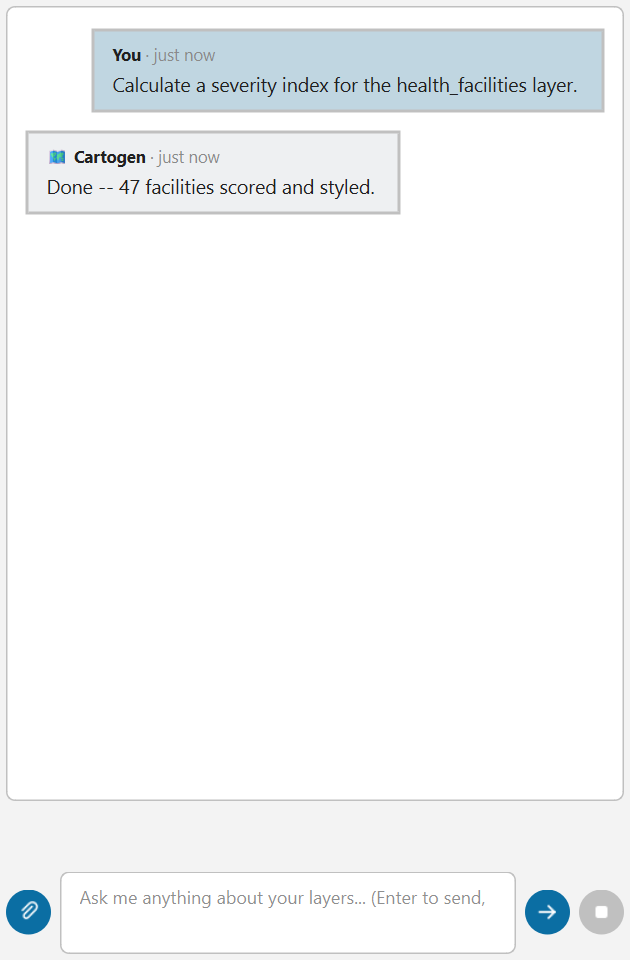
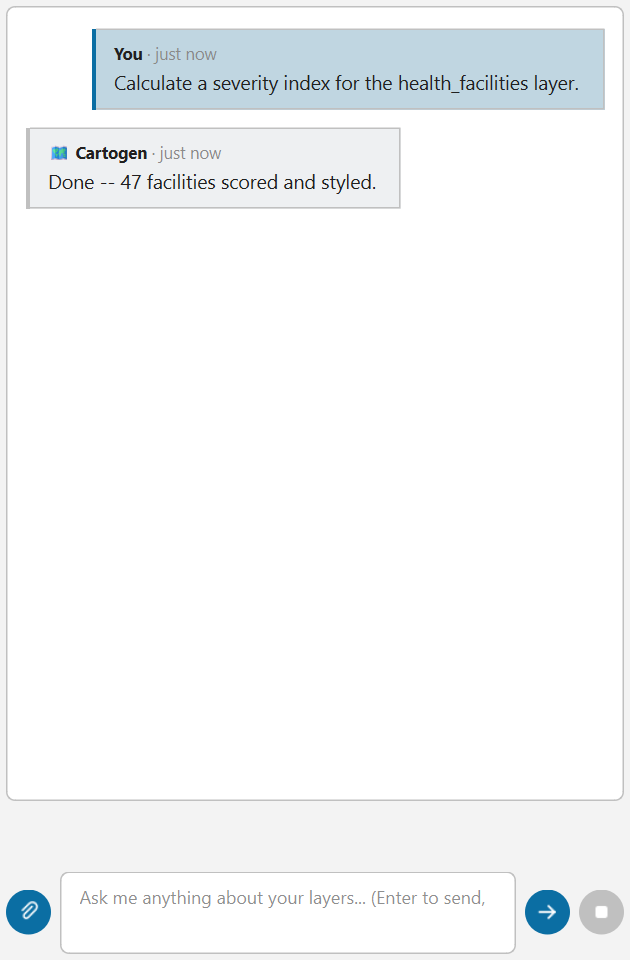
Fix chat bubble accent stripe: border-left was silently dropped by Qt
v1.11.0's border-left:3px accent-stripe fix looked correct in code and in a
screenshot, but was never actually verified pixel-by-pixel -- the earlier
"confirmation" found the accent hex value existing somewhere in a wider
screenshot, not proven to be the bubble itself. A user's live screenshot
showed a plain uniform border with no visible stripe at all, which turned
out to be real: a table cell in Qt's rich-text engine that sets both
"border:1px solid X" and "border-left:3px solid Y" silently drops the
border-left override entirely. Confirmed by rendering an unmistakable
magenta border-left in isolation -- it never appeared in the output.

Qt's table CSS does reliably support per-cell background-color and a
uniform border shorthand, just not both a border shorthand and a
conflicting border-left on the same cell. Fixed by using two cells instead
of a CSS trick: a dedicated 3px-wide stripe cell with only a
background-color (no border), directly beside the content cell, which
keeps its border but only on 3 sides (top/right/bottom) so it sits flush
against the stripe with no gap or double edge.

Verified this time by grabbing ONLY the QTextBrowser (not the whole
ChatTabWidget, which also has accent-colored QSS buttons/focus borders --
exactly what produced the false-positive confirmation the first time) and
scanning for a narrow (~3-4px), vertically-repeated run of the exact accent
RGB value at a stable x position -- found at x=449, a real vertical stripe,
[…]

Changed region(s): [[0.0302, 0.0312, 0.9651, 0.25]]

diff --git a/src/cartogen_ai/core/ui/chat_tab_widget.py b/src/cartogen_ai/core/ui/chat_tab_widget.py
@@ -371,12 +371,28 @@ class ChatTabWidget(QWidget):
         # rich-text engine is a limited CSS 2.1-ish subset with no border-radius support at
         # all, so it was always silently ignored -- every message has always rendered as a
         # sharp rectangle in real QGIS, never actually rounded despite the code claiming to.
-        # Replaced with something Qt's engine genuinely renders: a colored left-accent stripe,
-        # the same flat-message shape GitHub PR review comments and Slack thread replies use.
+        #
+        # The accent stripe went through a second, real bug the first time around: a single
+        # cell styled with both "border:1px solid X" and "border-left:3px solid Y" silently
+        # drops the border-left override entirely -- confirmed by rendering an unmistakable
+        # magenta border-left in isolation and finding it never appeared in the output at all,
+        # only the uniform 1px border color on every side, live user report 2026-09-12 (the
+        # first fix looked right on inspection but was never actually visually confirmed
+        # pixel-by-pixel, only via a color existing somewhere in the wider screenshot -- see
+        # feedback_synthetic_screenshots_have_limits memory). Qt's table CSS DOES reliably
+        # support per-cell background-color and a uniform border shorthand -- just not both
+        # border shorthand and a conflicting border-left on the same cell. Fixed by using two
+        # cells instead of one CSS trick: a dedicated 3px-wide stripe cell with only a
+        # background-color (no border at all), directly beside the actual content cell, which
+        # keeps its border but only on 3 sides (top/right/bottom -- no border-left, so it sits
+        # flush against the stripe with no gap or double edge).
         html = f"""
         <table border="0" cellspacing="0" cellpadding="0" width="100%" style="margin:6px 0;"><tr><td align="{align}">
-        <table border="0" cellspacing="0" cellpadding="0" align="{align}" style="max-width:85%;background-color:{bg};
-            border:1px solid {colors['border']};border-left:3px solid {accent_border};"><tr><td style="padding:8px 12px;">
+        <table border="0" cellspacing="0" cellpadding="0" align="{align}" style="max-width:85%;"><tr>
+        <td width="3" style="background-color:{accent_border};"></td>
+        <td style="background-color:{bg};padding:8px 12px;
+            border-top:1px solid {colors['border']};border-right:1px solid {colors['border']};
+            border-bottom:1px solid {colors['border']};">
         <div style="font-size:11px;font-weight:bold;color:{colors['text']};margin-bottom:3px;">
             {label} <span style="font-weight:normal;color:{colors['subtle']};">&middot; {timestamp}</span>
         </div>
